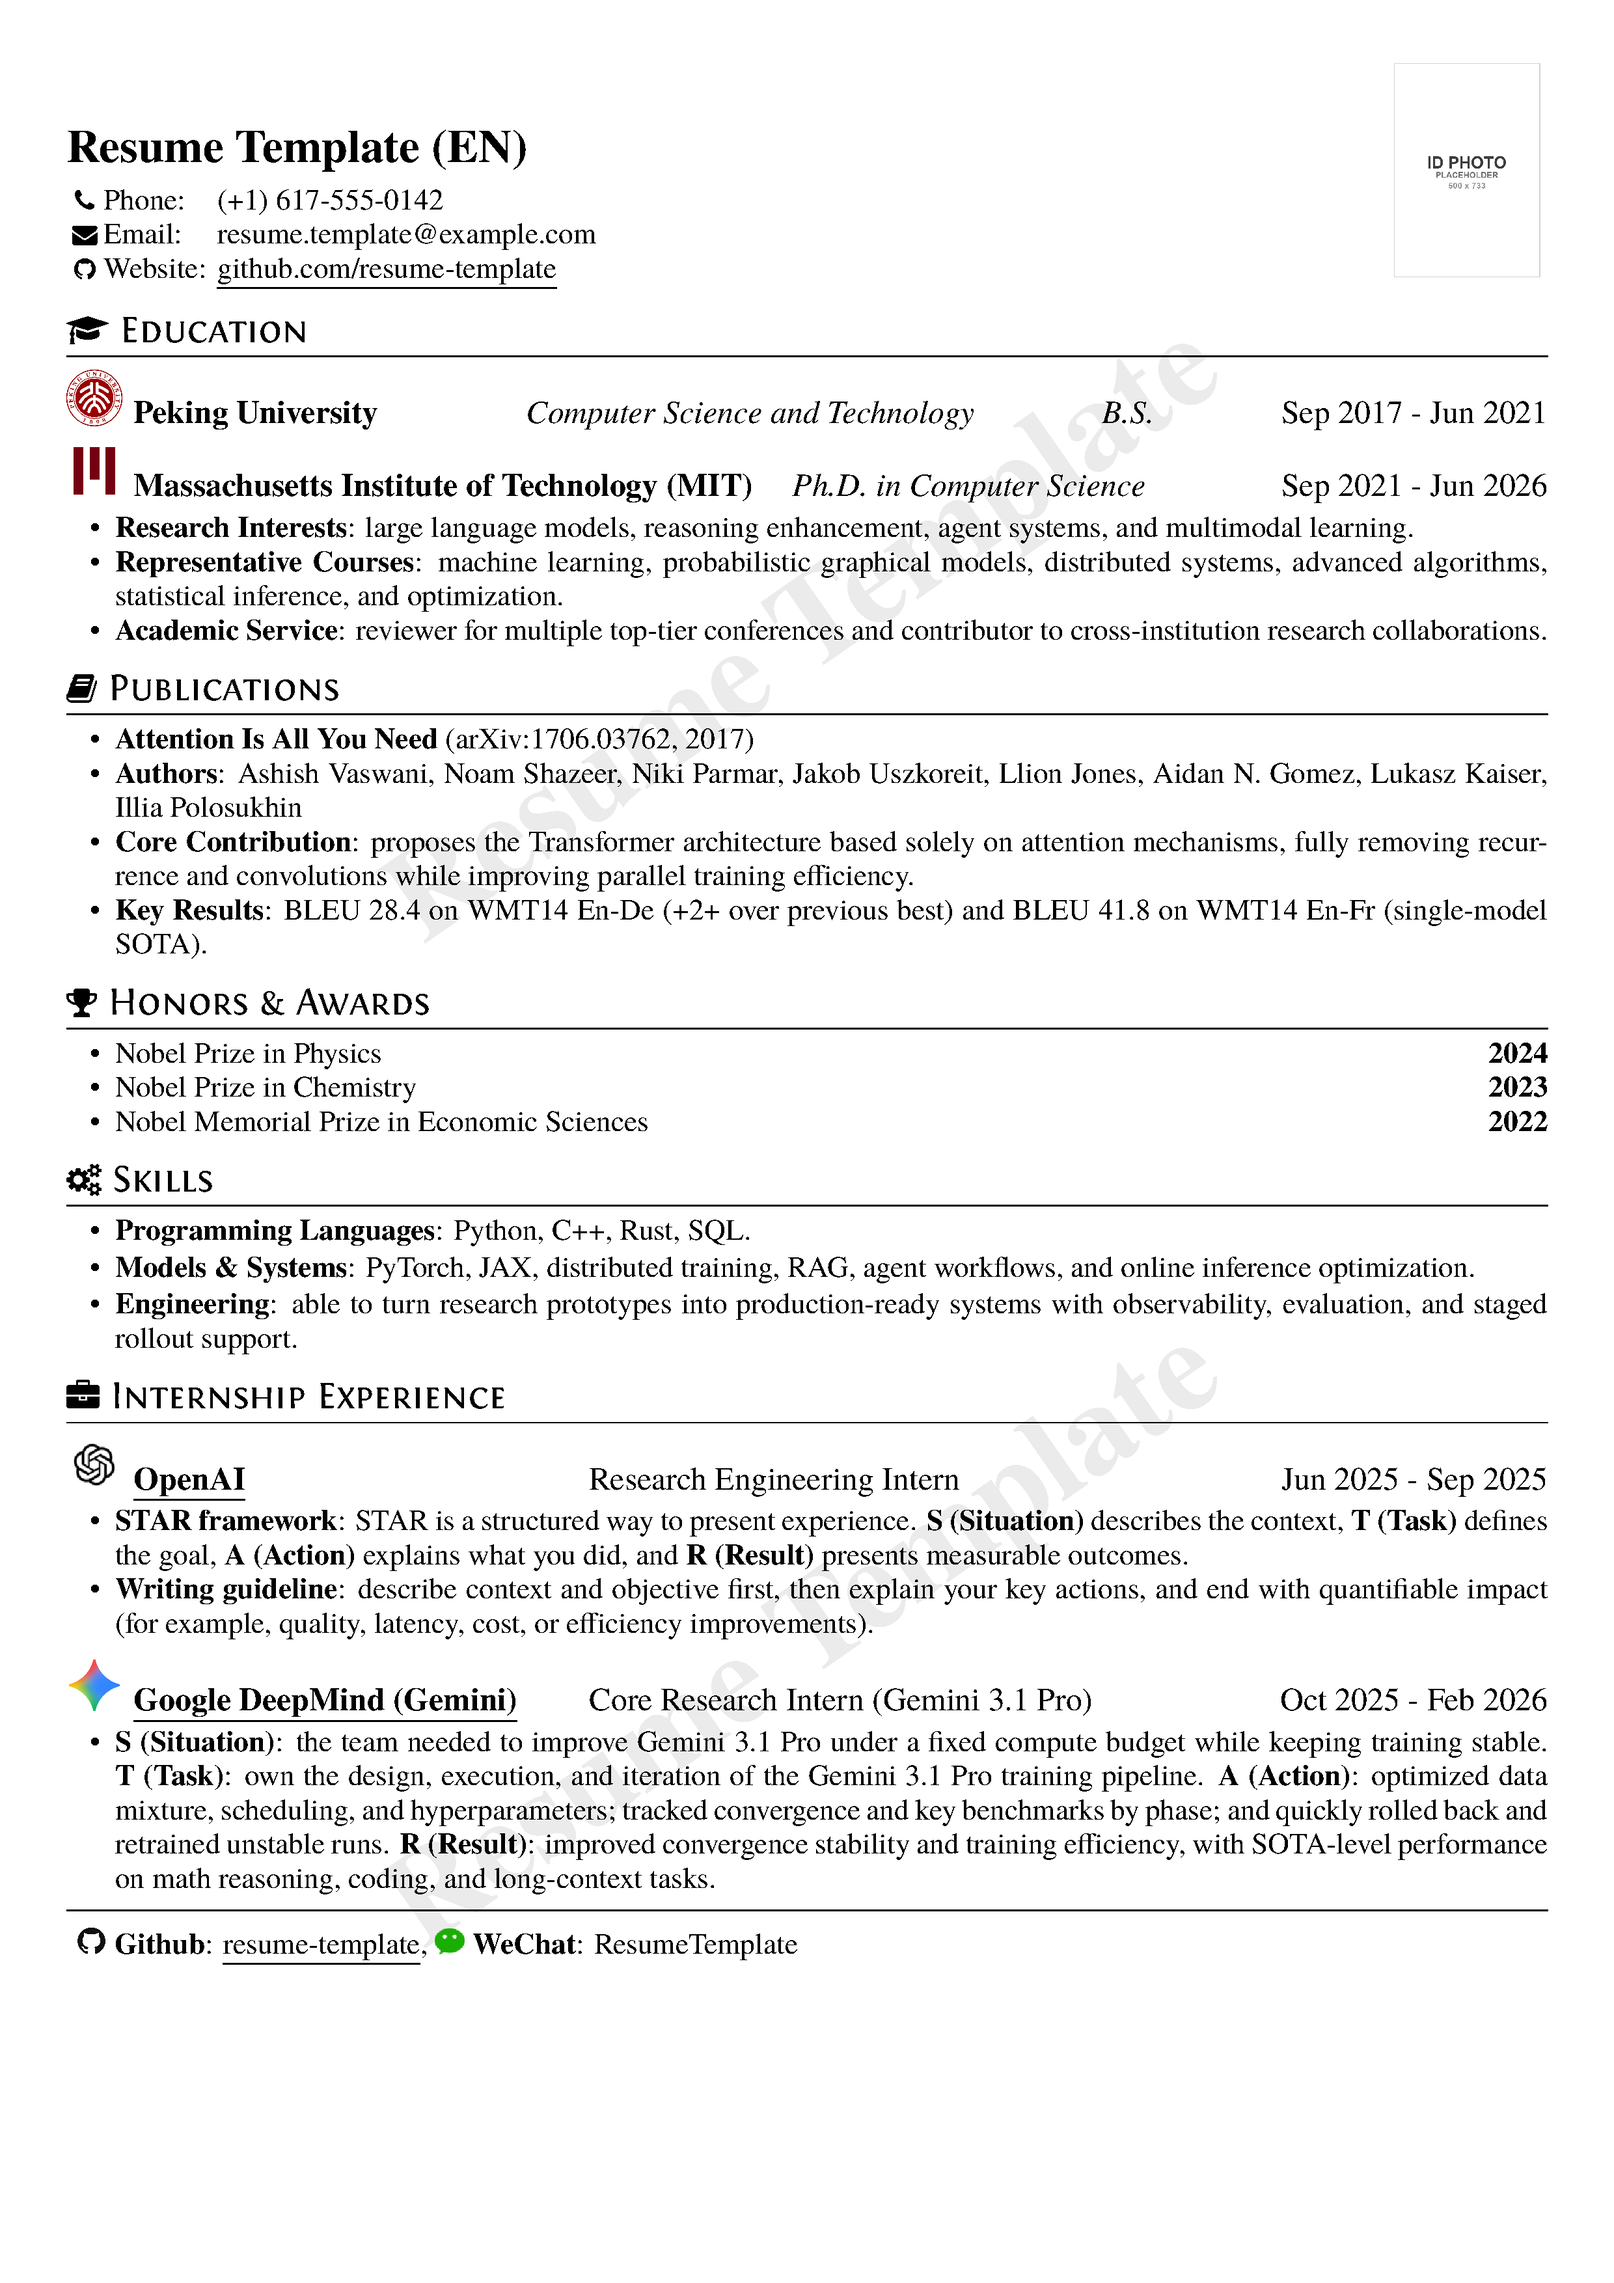
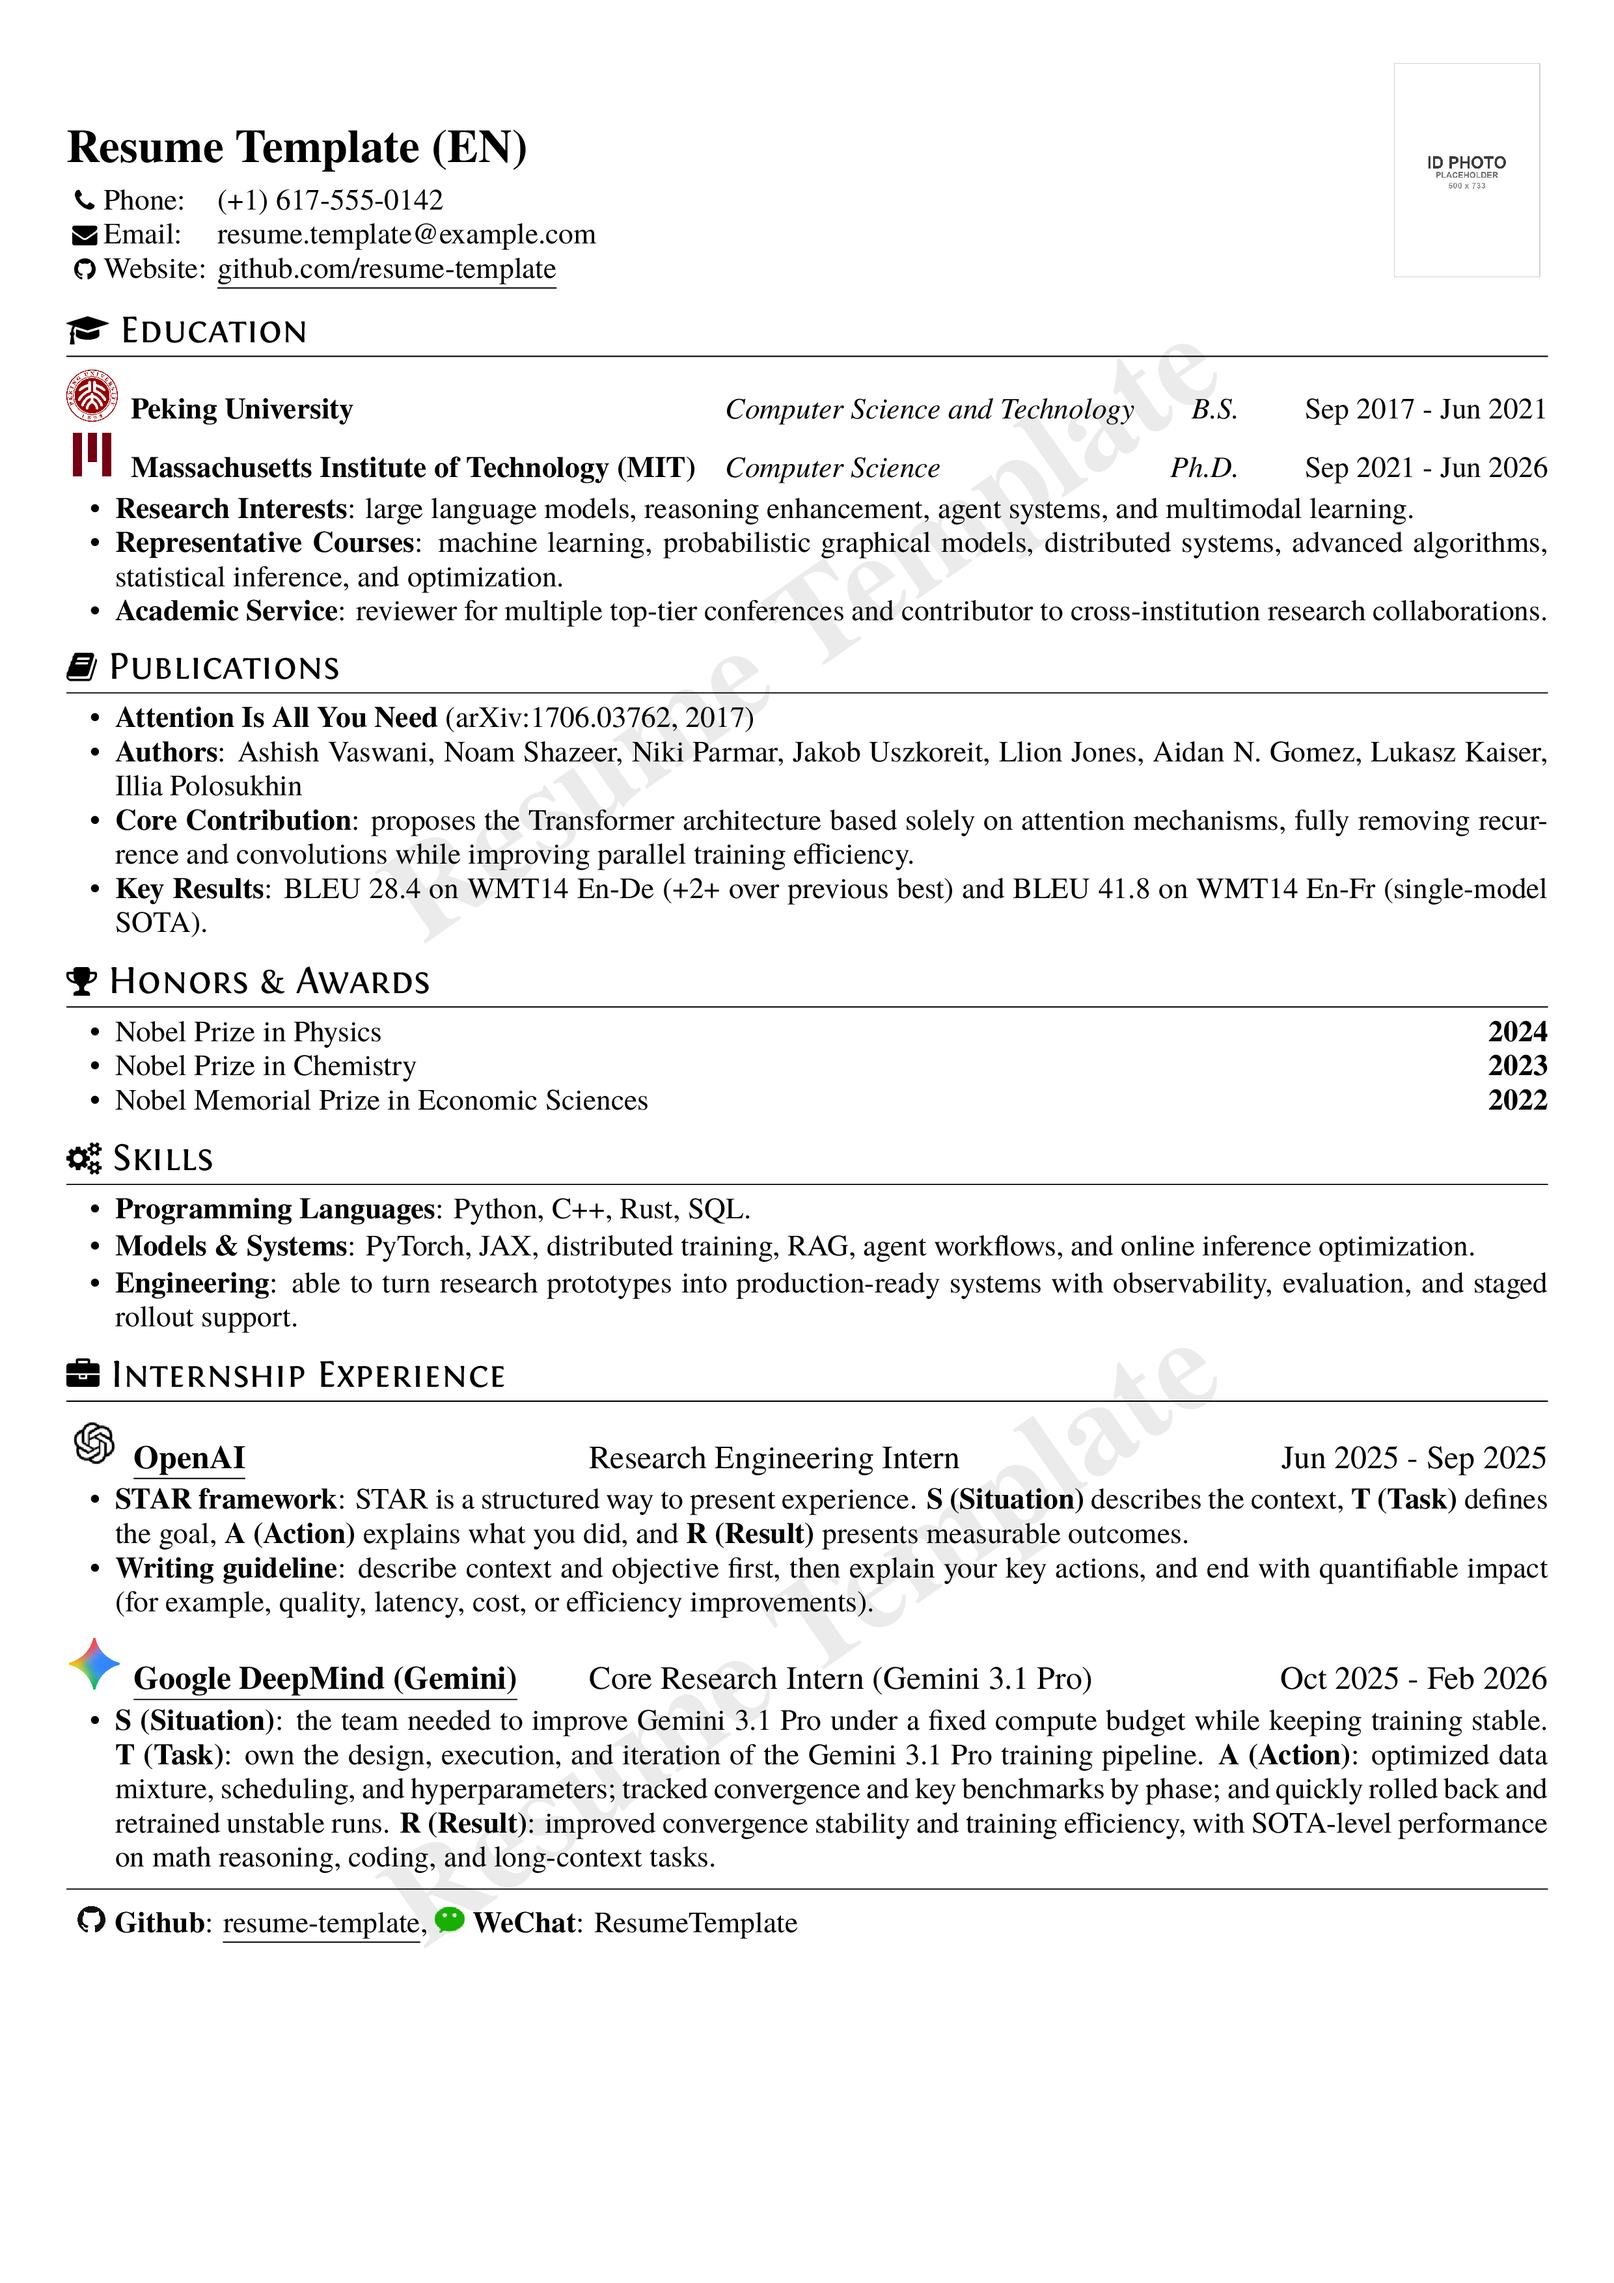
Align education fields and refresh LaTeX PNG previews

Changed region(s): [[0.031, 0.1554, 0.9625, 0.87], [0.9004, 0.435, 0.9625, 0.4971], [0.6831, 0.1554, 0.7141, 0.1864]]

diff --git a/resume-template-en_US.tex b/resume-template-en_US.tex
@@ -37,8 +37,19 @@
 }
 
 \section{\faGraduationCap\ Education}
-\edusubsectionwithicon[pku.png]{\textbf{\makebox[5cm][l]{Peking University}} \textit{Computer Science and Technology}}{\textit{B.S.} \hfill Sep 2017 - Jun 2021}
-\edusubsectionwithicon[mit.svg]{\textbf{\makebox[6.8cm][l]{Massachusetts Institute of Technology (MIT)}}}{\textit{Ph.D. in Computer Science} \hfill Sep 2021 - Jun 2026}
+\noindent
+\begin{tabular*}{\textwidth}{@{}l@{\hspace{0.45em}}l@{\hspace{1.0em}}l@{\extracolsep{\fill}}r@{\hspace{1.0em}}r@{}}
+  \raisebox{-0.2ex}{\includegraphics[height=\CompanyIconHeight]{icon/pku.png}} &
+  \textbf{Peking University} &
+  \textit{Computer Science and Technology} &
+  \textit{B.S.} &
+  Sep 2017 - Jun 2021 \\
+  \raisebox{-0.2ex}{\includegraphics[height=\CompanyIconHeight]{icon/mit.svg}} &
+  \textbf{Massachusetts Institute of Technology (MIT)} &
+  \textit{Computer Science} &
+  \textit{Ph.D.} &
+  Sep 2021 - Jun 2026
+\end{tabular*}
 \begin{itemize}
     \item \textbf{Research Interests}: large language models, reasoning enhancement, agent systems, and multimodal learning.
     \item \textbf{Representative Courses}: machine learning, probabilistic graphical models, distributed systems, advanced algorithms, statistical inference, and optimization.

diff --git a/resume-template-zh_CN.tex b/resume-template-zh_CN.tex
@@ -35,8 +35,19 @@
 }
 
 \section{\faGraduationCap\ 教育经历}
-\edusubsectionwithicon[pku.png]{\textbf{\makebox[5cm][l]{北京大学}} \textit{计算机科学与技术}}{\textit{本科} \hfill 2017.9 - 2021.6}
-\edusubsectionwithicon[mit.svg]{\textbf{\makebox[7.2cm][l]{麻省理工学院（MIT）}} \textit{计算机科学}}{\textit{博士} \hfill 2021.9 - 2026.6}
+\noindent
+\begin{tabular*}{\textwidth}{@{}l@{\hspace{0.45em}}l@{\hspace{1.0em}}l@{\extracolsep{\fill}}r@{\hspace{1.0em}}r@{}}
+  \raisebox{-0.2ex}{\includegraphics[height=\CompanyIconHeight]{icon/pku.png}} &
+  \textbf{北京大学} &
+  \textit{计算机科学与技术} &
+  \textit{本科} &
+  2017.9 - 2021.6 \\
+  \raisebox{-0.2ex}{\includegraphics[height=\CompanyIconHeight]{icon/mit.svg}} &
+  \textbf{麻省理工学院（MIT）} &
+  \textit{计算机科学} &
+  \textit{博士} &
+  2021.9 - 2026.6
+\end{tabular*}
 \begin{itemize}
     \item \textbf{研究方向}：大语言模型、推理增强、智能体系统与多模态学习。
     \item \textbf{代表课程}：机器学习、概率图模型、分布式系统、高级算法、统计推断与优化方法。
